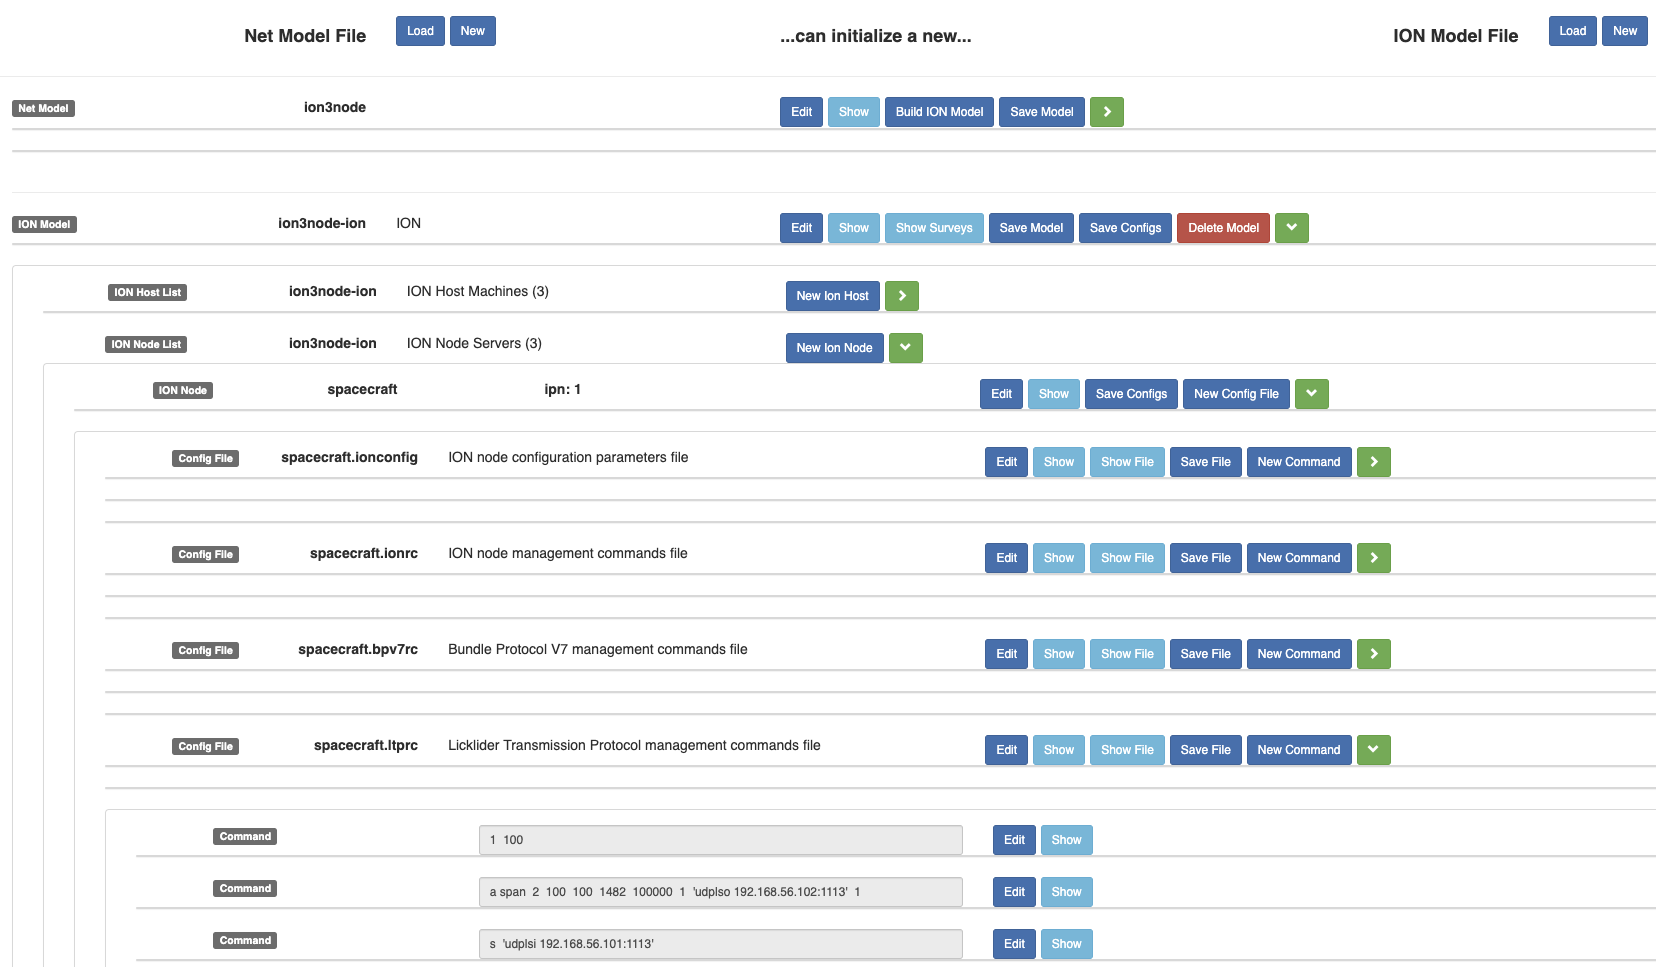
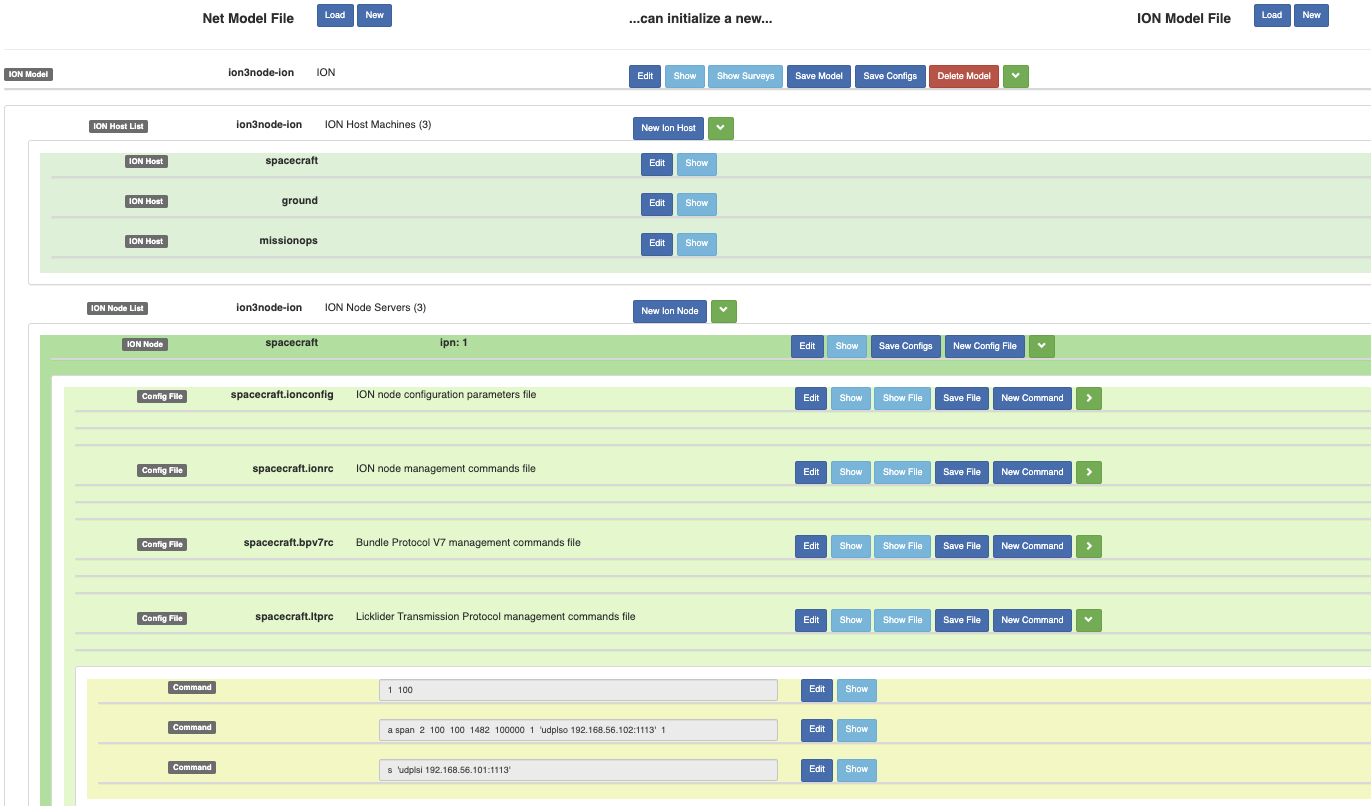
Updated docs for issue #26

diff --git a/manual/user-manual.html b/manual/user-manual.html
@@ -30,7 +30,7 @@
 <h4 id="ionconfig-data-flow-diagram">IonConfig Data Flow Diagram</h4>
 <p><img src="IonConfig-Diagram.png" alt="alt text" title="IonConfig DFD"></p>
 <h2 id="editor-structure">Editor Structure</h2>
-<p>The editor tool is structured as a direct hierarchy, paralleling the implicit organization of ION configuration files.  The main structure begins at the top with the <strong>Ion Model</strong>, followed by its <strong>Ion Nodes</strong>, each which has various <strong>Config Files</strong> that in turn contain  <strong>Commands</strong>.  Building and editing commands is the primary activity of the IonConfig tool.  Given the sheer number of configuration file types and command types, the hierarchy can grow very large for even a relatively small network.  The tool manages this problem by allowing the user to expand and contract sections readily with the click of a button.  Assembling a new model works in the same top-down fashion: create a new ion model, create a node, add a configuration file and finally construct commands.</p>
+<p>The editor tool is structured as a direct hierarchy, paralleling the implicit organization of ION configuration files.  The nested hierarchy is color coded to make it easier for a user to see in which part of the hierarchy they are working. The main structure begins at the top with the <strong>Ion Model</strong>, followed by its <strong>Ion Nodes</strong>, each which has various <strong>Config Files</strong> that in turn contain  <strong>Commands</strong>.  Building and editing commands is the primary activity of the IonConfig tool.  Given the sheer number of configuration file types and command types, the hierarchy can grow very large for even a relatively small network.  The tool manages this problem by allowing the user to expand and contract sections readily with the click of a button.  Assembling a new model works in the same top-down fashion: create a new ion model, create a node, add a configuration file and finally construct commands.</p>
 <h4 id="editor-structure-example">Editor Structure Example</h4>
 <p><img src="Editor-Structure.png" alt="alt text" title="Editor Structure"></p>
 <p>While the great bulk of configuration files will exist to support a specific Ion Node, a network will also require at least one globally shared <strong>Contact Graph</strong> which is a single configuration file.  So there is a parallel hierarchy beginning with the <strong>Ion Model</strong>  model, followed by its <strong>Contacts</strong>, each which has a single <strong>Config File</strong> that in turn contains <strong>Commands</strong>.  The style and structure of the hierarchy for contact graphs mirrors that for Ion Nodes.  While a configuration will use only one contact graph at a time, the model permits the creation of multiple contact graph objects to, for example, define future graph versions.</p>
